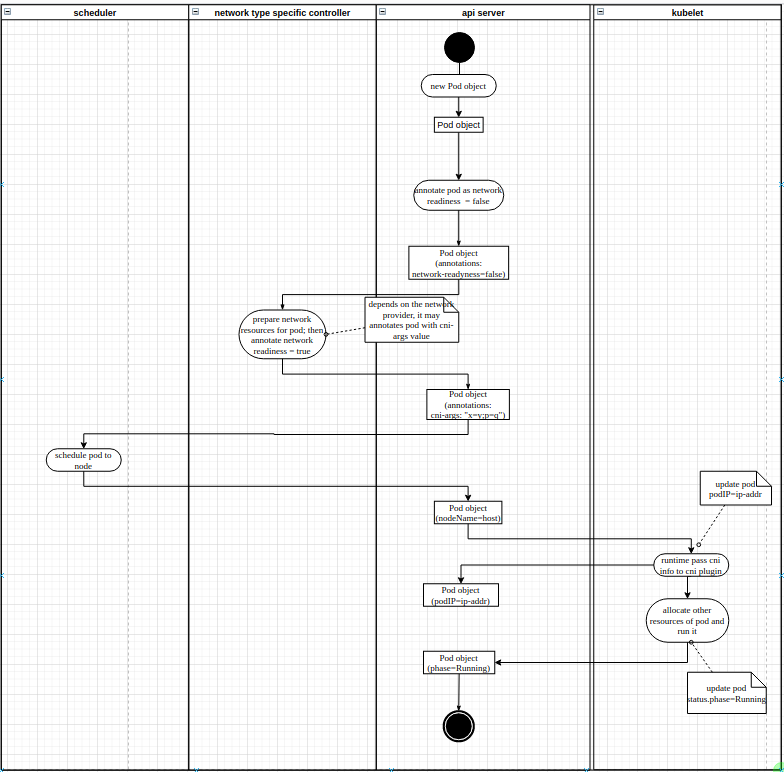
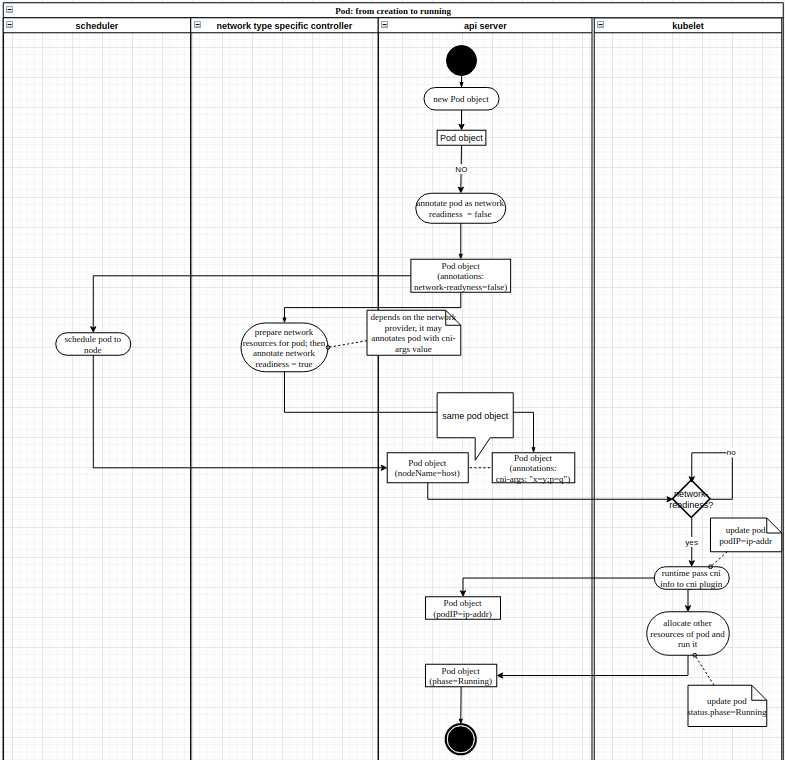
kubelet checks network readiness (#427)
* syncPod workflow: added check pod network-readiness

* design doc: modify activity diagram to reflect network-readiness is checked at kubelet

* minor: readiness const string

* bazel build: updated BUILD files

Changed region(s): [[0.0, 0.0, 1.0, 1.0], [0.0612, 0.4231, 0.1531, 0.4836], [0.0918, 0.3627, 0.1224, 0.3929]]

diff --git a/pkg/kubelet/kubelet_test.go b/pkg/kubelet/kubelet_test.go
@@ -1157,6 +1157,54 @@ func TestNetworkErrorsWithoutHostNetwork(t *testing.T) {
 	assert.NoError(t, err, "expected pod with hostNetwork=true to succeed when network in error")
 }
 
+func TestNetworkReadinessWithoutHostNetwork(t *testing.T) {
+	testKubelet := newTestKubelet(t, false /* controllerAttachDetachEnabled */)
+	defer testKubelet.Cleanup()
+	kubelet := testKubelet.kubelet
+
+	pod := podWithUIDNameNsSpec("12345678", "hostnetwork", "new", v1.PodSpec{
+		HostNetwork: false,
+
+		Containers: []v1.Container{
+			{Name: "foo"},
+		},
+	})
+
+	kubelet.podManager.SetPods([]*v1.Pod{pod})
+
+	err := kubelet.syncPod(syncPodOptions{
+		pod:        pod,
+		podStatus:  &kubecontainer.PodStatus{},
+		updateType: kubetypes.SyncPodUpdate,
+	})
+	assert.NoError(t, err, "expected pod without explicit network-readiness to succeed")
+
+	pod.Annotations["arktos.futurewei.com/network-readiness"] = "false"
+	err = kubelet.syncPod(syncPodOptions{
+		pod:        pod,
+		podStatus:  &kubecontainer.PodStatus{},
+		updateType: kubetypes.SyncPodUpdate,
+	})
+	assert.Error(t, err, "pod network-readiness is false")
+
+	pod.Annotations["arktos.futurewei.com/network-readiness"] = "true"
+	err = kubelet.syncPod(syncPodOptions{
+		pod:        pod,
+		podStatus:  &kubecontainer.PodStatus{},
+		updateType: kubetypes.SyncPodUpdate,
+	})
+	assert.NoError(t, err, "expected pod with network-readiness=true to succeed")
+
+	pod.Spec.HostNetwork = true
+	pod.Annotations["arktos.futurewei.com/network-readiness"] = "false"
+	err = kubelet.syncPod(syncPodOptions{
+		pod:        pod,
+		podStatus:  &kubecontainer.PodStatus{},
+		updateType: kubetypes.SyncPodUpdate,
+	})
+	assert.NoError(t, err, "expected pod with hostNetwork=true to succeed when network-readiness in not true")
+}
+
 func TestFilterOutTerminatedPods(t *testing.T) {
 	testKubelet := newTestKubelet(t, false /* controllerAttachDetachEnabled */)
 	defer testKubelet.Cleanup()

diff --git a/pkg/kubelet/kubelet.go b/pkg/kubelet/kubelet.go
@@ -21,6 +21,7 @@ import (
 	"context"
 	"crypto/tls"
 	"fmt"
+	arktosv1 "k8s.io/arktos-ext/pkg/apis/arktosextensions/v1"
 	"k8s.io/kubernetes/pkg/kubelet/runtimeregistry"
 	"math"
 	"net"
@@ -1459,6 +1460,7 @@ func (kl *Kubelet) Run(updates <-chan kubetypes.PodUpdate) {
 //   already have a mirror pod
 // * Create the data directories for the pod if they do not exist
 // * Wait for volumes to attach/mount
+// * If pod is not of host network, check network readiness
 // * Fetch the pull secrets for the pod
 // * Call the container runtime's SyncPod callback
 // * Update the traffic shaping for the pod's ingress and egress limits
@@ -1686,6 +1688,18 @@ func (kl *Kubelet) syncPod(o syncPodOptions) error {
 			kl.recorder.Eventf(pod, v1.EventTypeWarning, events.FailedMountVolume, "Unable to mount volumes for pod %q: %v", format.Pod(pod), err)
 			klog.Errorf("Unable to mount volumes for pod %q: %v; skipping pod", format.Pod(pod), err)
 			return err
+		}
+	}
+
+	// If pod is not host network, check network-readiness (only fails the cases with explicit not true value)
+	if !kubecontainer.IsHostNetworkPod(pod) {
+		if v, ok := pod.Annotations[arktosv1.NetworkReadiness]; ok {
+			if strings.ToLower(v) != "true" {
+				err := fmt.Errorf("pod network-readiness is %s", v)
+				kl.recorder.Eventf(pod, v1.EventTypeWarning, events.FailedNetworkReadiness, "external component indicates network is not ready: %v", err)
+				klog.Errorf("Pod network readiness is not true")
+				return err
+			}
 		}
 	}
 

diff --git a/plugin/pkg/admission/defaultpodnetworkreadiness/admission.go b/plugin/pkg/admission/defaultpodnetworkreadiness/admission.go
@@ -20,14 +20,13 @@ import (
 	"io"
 	apierrors "k8s.io/apimachinery/pkg/api/errors"
 	"k8s.io/apiserver/pkg/admission"
+	arktosv1 "k8s.io/arktos-ext/pkg/apis/arktosextensions/v1"
 	api "k8s.io/kubernetes/pkg/apis/core"
 )
 
 const (
 	// PluginName indicates name of admission plugin.
 	PluginName = "DefaultPodNetworkReadiness"
-
-	networkReadiness = "arktos.futurewei.com/network-readiness"
 )
 
 // Register registers a plugin
@@ -58,7 +57,7 @@ func (p plugin) Admit(attributes admission.Attributes, o admission.ObjectInterfa
 		return nil
 	}
 
-	if _, readinessExists := pod.Annotations[networkReadiness]; readinessExists {
+	if _, readinessExists := pod.Annotations[arktosv1.NetworkReadiness]; readinessExists {
 		return nil
 	}
 
@@ -66,7 +65,7 @@ func (p plugin) Admit(attributes admission.Attributes, o admission.ObjectInterfa
 	if pod.ObjectMeta.Annotations == nil {
 		pod.ObjectMeta.Annotations = map[string]string{}
 	}
-	pod.ObjectMeta.Annotations[networkReadiness] = "false"
+	pod.ObjectMeta.Annotations[arktosv1.NetworkReadiness] = "false"
 	return nil
 }
 

diff --git a/plugin/pkg/admission/defaultpodnetworkreadiness/admission_test.go b/plugin/pkg/admission/defaultpodnetworkreadiness/admission_test.go
@@ -22,6 +22,7 @@ import (
 	metav1 "k8s.io/apimachinery/pkg/apis/meta/v1"
 	"k8s.io/apiserver/pkg/admission"
 	admissiontesting "k8s.io/apiserver/pkg/admission/testing"
+	arktosv1 "k8s.io/arktos-ext/pkg/apis/arktosextensions/v1"
 	api "k8s.io/kubernetes/pkg/apis/core"
 )
 
@@ -84,7 +85,7 @@ func TestAdmit(t *testing.T) {
 				t.Fatalf("Unexpected error returned from admission handler: %v", err)
 			}
 
-			v, ok := pod.Annotations[networkReadiness]
+			v, ok := pod.Annotations[arktosv1.NetworkReadiness]
 			if tc.notExpectingReadiness && ok {
 				t.Fatalf("should not have added readiness annotation")
 			}

diff --git a/pkg/kubelet/events/event.go b/pkg/kubelet/events/event.go
@@ -67,6 +67,7 @@ const (
 	SandboxChanged                       = "SandboxChanged"
 	FailedCreatePodSandBox               = "FailedCreatePodSandBox"
 	FailedStatusPodSandBox               = "FailedPodSandBoxStatus"
+	FailedNetworkReadiness               = "FailedPodNetworkReadiness"
 
 	// Image manager event reason list
 	InvalidDiskCapacity = "InvalidDiskCapacity"

diff --git a/staging/src/k8s.io/arktos-ext/pkg/apis/arktosextensions/v1/types.go b/staging/src/k8s.io/arktos-ext/pkg/apis/arktosextensions/v1/types.go
@@ -67,6 +67,9 @@ const (
 	// NetworkUnknown means the state of network cannot be decided due to
 	// communication problems.
 	NetworkUnknown NetworkPhase = "Unknown"
+
+	// network related annotation keys
+	NetworkReadiness = "arktos.futurewei.com/network-readiness"
 )
 
 // NetworkStatus is the status for Network resource
